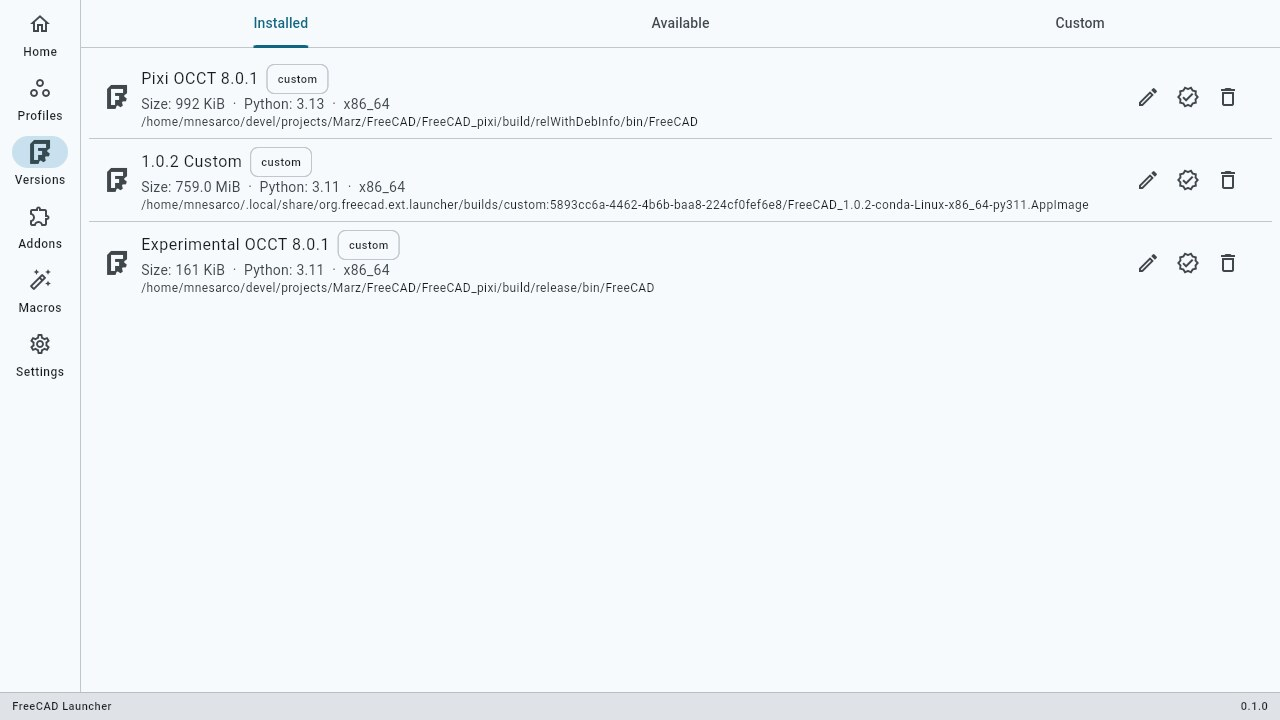
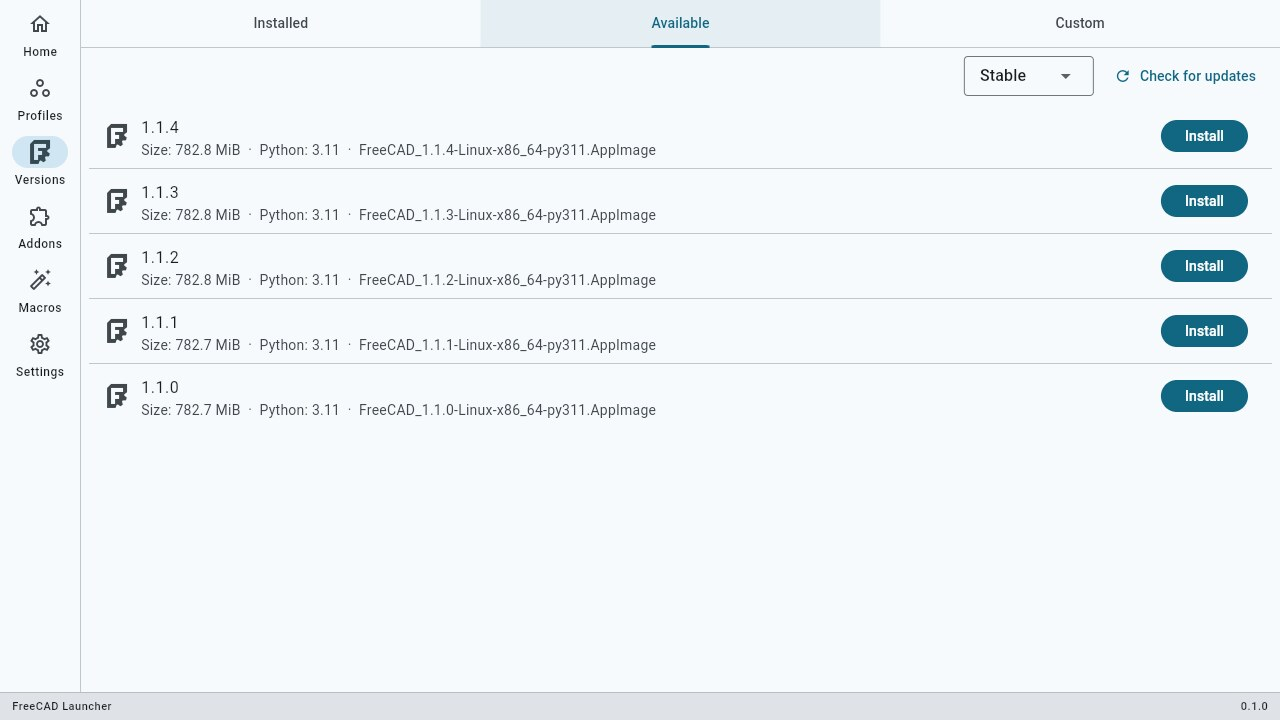
docs: README refresh — clarified intro, Stable|Weekly channel, screenshots, AI-assistance disclosure (R20)

diff --git a/README.md b/README.md
@@ -5,9 +5,9 @@
 [![CI](https://github.com/mnesarco/FreeCAD-Launcher/actions/workflows/ci.yml/badge.svg)](https://github.com/mnesarco/FreeCAD-Launcher/actions/workflows/ci.yml)
 [![Release AppImage](https://github.com/mnesarco/FreeCAD-Launcher/actions/workflows/appimage-release.yml/badge.svg)](https://github.com/mnesarco/FreeCAD-Launcher/actions/workflows/appimage-release.yml)
 
-A desktop application that manages multiple FreeCAD builds and fully isolated profiles:
-each profile gets its own settings, addons, macros and Python packages, while all profiles share
-one installed FreeCAD copy.
+A desktop application that manages multiple FreeCAD builds (versions) side by side and fully
+isolated profiles: a single build can back any number of profiles, and each profile gets its own
+settings, addons, macros and Python packages.
 
 ![Home dashboard](docs/images/home.jpg)
 
@@ -21,8 +21,10 @@ one installed FreeCAD copy.
 
 ## Features
 
-- **Builds** — install stable releases from the official FreeCAD release catalog, import a local
-  file or URL, or register a self-compiled executable in place; verify, relabel and remove.
+- **Builds** — install stable or weekly development releases from the official FreeCAD release
+  catalog (**Stable | Weekly** channel; the latest 52 weeklies, with a confirmation warning for
+  development-quality builds), import a local file or URL, or register a self-compiled
+  executable in place; verify, relabel and remove.
 - **Profiles** — one profile per task/project with isolated `FREECAD_USER_HOME`, `user.cfg` /
   `system.cfg`, `Mod/`, macros, Python target and temporary files. Launch from the app, from the
   Home dashboard, or via the CLI.
@@ -35,7 +37,8 @@ one installed FreeCAD copy.
 - **Macros** — install from the official macro catalog, list, open, reveal and delete per profile.
 - **Config** — timestamped `user.cfg`/`system.cfg` snapshots with restore, plus portable
   profile manifest export/import.
-- **Updates** — notify-only checks for addon and FreeCAD build updates (no silent changes).
+- **Updates** — notify-only checks for addon and FreeCAD build updates, tracking stable and
+  weekly channels separately (no silent changes).
 - **Jobs** — downloads and installs run through a shared queue with progress, cancel, retry and
   per-launch log files.
 - **Settings** — theme, update cadence, log level, cache management, CLI wrapper installation,
@@ -80,8 +83,8 @@ For development, run from source with `flutter run -d linux`.
 
 ## Quick start
 
-1. **Install a build** — Versions → *Available* → **Install** for the latest stable FreeCAD.
-   Use the *Custom* tab to import a local AppImage/archive, a URL, or to register a
+1. **Install a build** — Versions → *Available* → choose the **Stable | Weekly** channel, then
+   **Install**. Use the *Custom* tab to import a local AppImage/archive, a URL, or to register a
    self-compiled FreeCAD executable in place.
 2. **Create a profile** — Profiles → **New profile**, pick the build. The profile gets its own
    isolated environment.
@@ -153,3 +156,9 @@ Documentation map:
   live state).
 - `docs/user-guide.md` — end-user guide.
 - `addon_index_spec.md` — addon catalog format (upstream data format).
+
+## AI assistance
+
+Development of FreeCAD Launcher is assisted by **DeepSeek 4.1 Flash**. The project is
+spec-driven: it is architected, designed and developed by a human with AI assistance — not
+vibe-coded.

diff --git a/docs/impl/STATUS.md b/docs/impl/STATUS.md
@@ -425,6 +425,10 @@
     with `FreeCADLauncher-0.1.0-x86_64.AppImage` (29.9 MB), `.sha256` and `.zsync`; notes are
     GitHub-generated (no tokens). M8-01 and M8-02 are DONE. Next: M8-05 clean-VM pass with this
     published AppImage, then M8-03/M8-04 (Windows/macOS, need machines).
+  - Docs refresh (2026-10-01, R20): README intro now states that multiple builds coexist and each
+    can back any number of isolated profiles; the **Stable | Weekly** channel is documented in
+    Features, Quick start and Updates; all five README screenshots were recaptured from the
+    current build (light theme, 1280×720; Versions shows Available/Stable). No code changes.
 
 ## Session log
 
@@ -529,6 +533,7 @@
 | 2026-10-01 | R17 | First CI-built AppImage from GitHub verified: run 36810294004 built/uploaded `FreeCADLauncher-0.1.0-x86_64.AppImage` (29.9 MB) + sha256 + zsync; artifact re-verified locally; M8-02 DONE | M8-01, M8-02 | `docs/impl/{TASKS,STATUS,VERIFICATION}.md` |
 | 2026-10-01 | R18 | First release: `v0.1.0` pre-release published from the manual workflow (run 36812429637) with AppImage + sha256 + zsync; M8-01 DONE; tag fetched locally | M8-01 | `docs/impl/{TASKS,STATUS,VERIFICATION}.md` |
 | 2026-10-01 | R19 | History cleanup: dropped the temporary `ping`/`bisect` CI commits with `git-filter-repo` (tree unchanged), force-pushed `devel` and moved `v0.1.0` to the rewritten commit; CI and the tag-path release workflow re-ran green (runs 36815947311 / 36815948224) | — | `docs/impl/STATUS.md` |
+| 2026-10-01 | R20 | README accuracy pass: intro clarified (multiple builds, each backing many profiles), Stable\|Weekly channel documented in Features/Quick start/Updates, all five screenshots recaptured from the current build (Available/Stable for Versions), AI-assistance disclosure added | — | `README.md`, `docs/images/*.jpg`, `docs/impl/STATUS.md`, `docs/impl/VERIFICATION.md` |
 
 ## Standing notes for the next agent
 

diff --git a/docs/impl/VERIFICATION.md b/docs/impl/VERIFICATION.md
@@ -172,7 +172,8 @@ target, exception).
 - [x] AppImage builds reproducibly locally (S5/M7-01) and runs on the host with/without FUSE
 - [x] `LICENSE` and `THIRD_PARTY_NOTICES.md` present; SPDX headers on sources; the AppImage
       ships both under `/usr/share/doc/freecad-launcher/` (M7-03/D-074, 2026-09-24)
-- [x] README + user guide written, links checked, screenshots current (M7-04, 2026-09-24)
+- [x] README + user guide written, links checked, screenshots current (M7-04, 2026-09-24;
+      screenshots recaptured from the current build 2026-10-01, R20)
 - [x] No secrets or tokens in logs or artifacts — debug-bundle review (M6-06), notices/scripts
       scanned, v0.1 has no token support (OQ-3 deferred)
 
